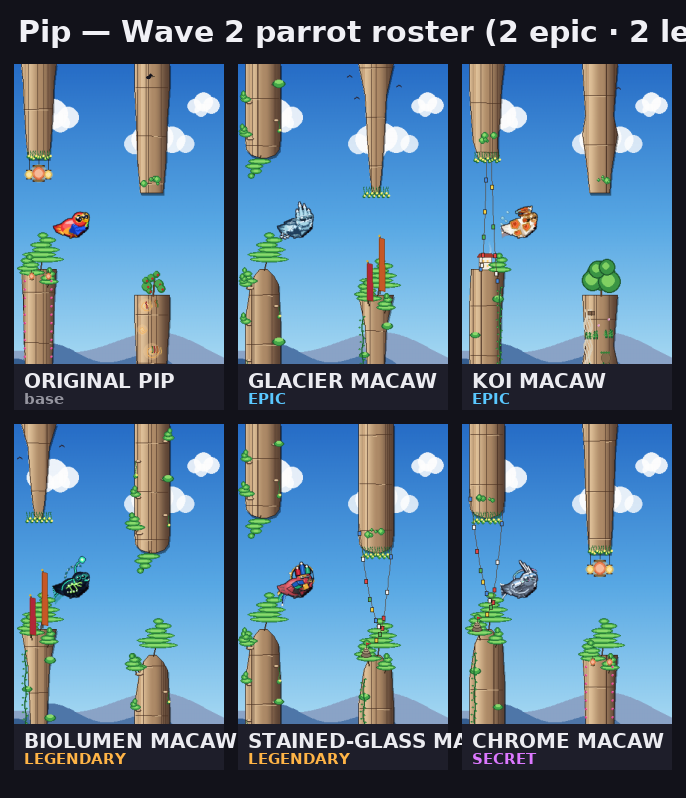
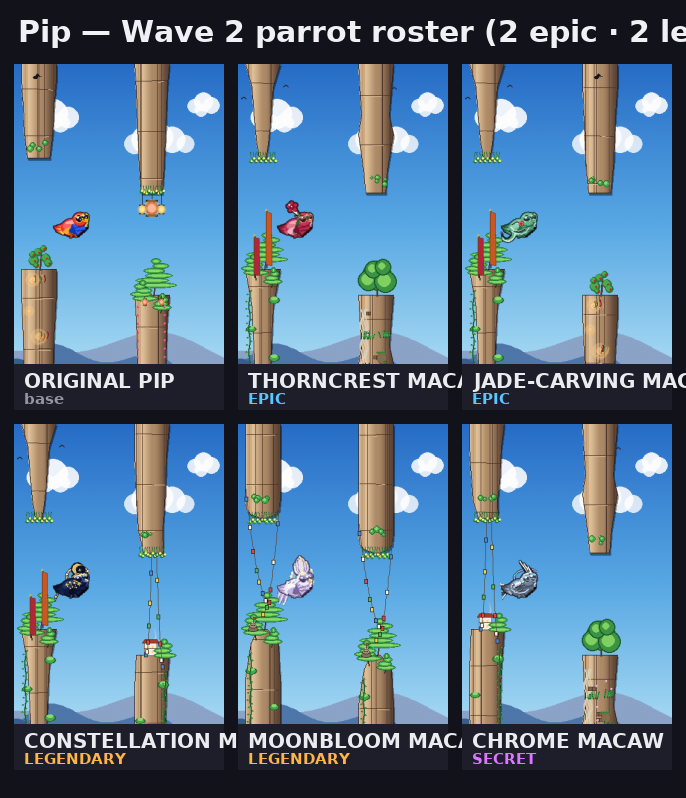
Wave 2.1 parrot skins: rebuild final comparison with new 4-concept roster
THORNCREST (epic) + JADE-CARVING (epic) + CONSTELLATION (legendary) +
MOONBLOOM (legendary) replace the four rejected wave-2 designs; CHROME
(secret) is unchanged. make_comparison.py updated with correct labels and
portrait panel ratio. Scratch render sheets from the design loop included.

Claude-Session: https://claude.ai/code/session_01N1LM2Bgn9T6hStkWEbBYjz

diff --git a/tools/parrot_wave2_candidates/make_comparison.py b/tools/parrot_wave2_candidates/make_comparison.py
@@ -27,8 +27,8 @@ PANELS = [
     (None, "ORIGINAL PIP", "base"),
 ]
 for n, (name, tier) in enumerate(
-        [("GLACIER MACAW", "EPIC"), ("KOI MACAW", "EPIC"),
-         ("BIOLUMEN MACAW", "LEGENDARY"), ("STAINED-GLASS MACAW", "LEGENDARY"),
+        [("THORNCREST MACAW", "EPIC"), ("JADE-CARVING MACAW", "EPIC"),
+         ("CONSTELLATION MACAW", "LEGENDARY"), ("MOONBLOOM MACAW", "LEGENDARY"),
          ("CHROME MACAW", "SECRET")], start=1):
     mod = importlib.import_module(f"tools.parrot_wave2_candidates.design_{n}")
     PANELS.append((mod.build, name, tier))
